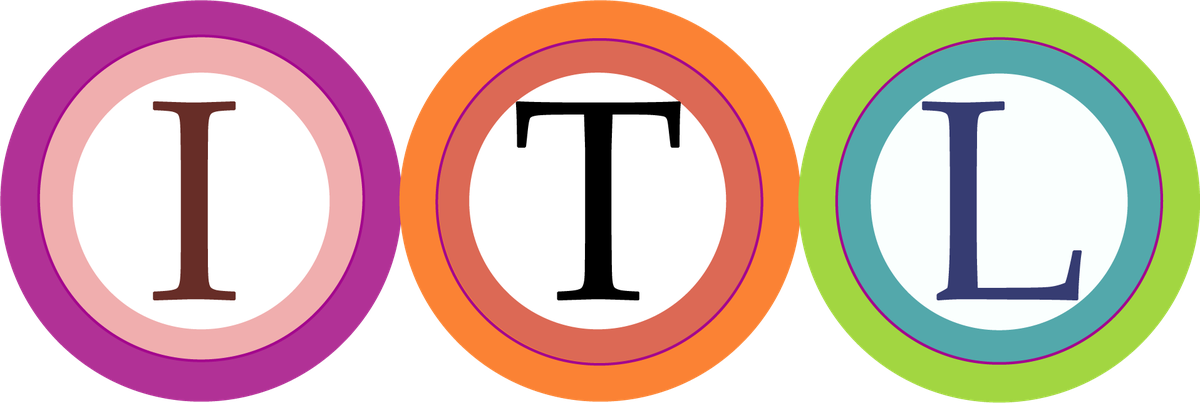
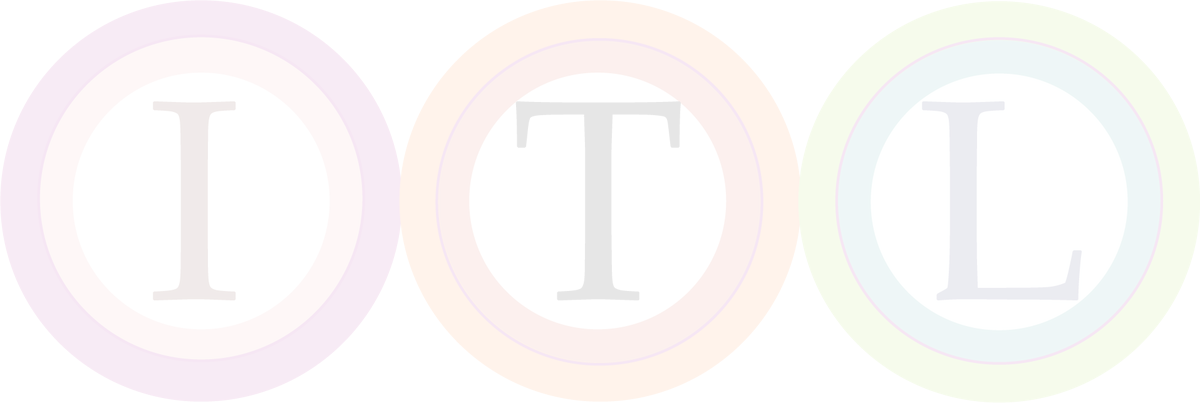
auto-commit for 1ee01e3e-f6ef-4db5-9669-68d5a14521bc

diff --git a/frontend/public/index.html b/frontend/public/index.html
@@ -6,7 +6,7 @@
     <link rel="apple-touch-icon" sizes="192x192" href="%PUBLIC_URL%/logo192.png" />
     <meta name="viewport" content="width=device-width, initial-scale=1, viewport-fit=cover" />
     <meta name="theme-color" content="#2563eb" />
-    <meta name="description" content="INDIAN TRADE LINKS ERP — Industrial Services Pvt. Ltd. Single-window cloud ERP for scaffolding, painting, roof sheeting, rope access & shutdown operations." />
+    <meta name="description" content="INDIAN TRADE LINKS ERP — Single-window cloud ERP for scaffolding, painting, roof sheeting, rope access & shutdown operations." />
     <meta name="apple-mobile-web-app-capable" content="yes" />
     <meta name="mobile-web-app-capable" content="yes" />
     <meta name="apple-mobile-web-app-status-bar-style" content="default" />

diff --git a/frontend/src/pages/Landing.jsx b/frontend/src/pages/Landing.jsx
@@ -205,7 +205,7 @@ export default function Landing() {
       <footer className="border-t border-border">
         <div className="max-w-7xl mx-auto px-6 py-8 flex flex-wrap items-center justify-between gap-4">
           <Brand />
-          <div className="text-xs text-muted-foreground">© {new Date().getFullYear()} INDIAN TRADE LINKS — Industrial Services Pvt. Ltd.</div>
+          <div className="text-xs text-muted-foreground">© {new Date().getFullYear()} INDIAN TRADE LINKS</div>
         </div>
       </footer>
     </div>

diff --git a/frontend/src/components/Brand.jsx b/frontend/src/components/Brand.jsx
@@ -23,7 +23,6 @@ export default function Brand({ compact = false, className = "" }) {
       {!compact && (
         <div className="leading-tight">
           <div className="font-display font-black text-[13px] tracking-tight uppercase">Indian Trade Links</div>
-          <div className="text-[9px] uppercase tracking-[0.18em] opacity-60 -mt-0.5">Industrial Services Pvt. Ltd.</div>
         </div>
       )}
     </div>

diff --git a/backend/pdf_generator.py b/backend/pdf_generator.py
@@ -33,8 +33,11 @@ except Exception:  # pragma: no cover
     _RL_OK = False
 
 
-BRAND = "INDIAN TRADE LINKS · Industrial Services Pvt. Ltd."
+BRAND = "INDIAN TRADE LINKS"
 FOOTER_NOTE = "System-generated · Not valid without approval signatures"
+CORPORATE_ADDRESS = ("Corporate Address - Tower-1, Office No. 605-606, 6th Floor, "
+                     "Pearl Omaxe Building, Netaji Subhash Place, Pitampura, Delhi - 110034.")
+WATERMARK_FILE = "file:///app/backend/assets/itl-watermark.png"
 
 CSS_BASE = """
 <style>
@@ -67,7 +70,11 @@ td.num, th.num { text-align: right; font-variant-numeric: tabular-nums; }
 .tag.slate { background: #e2e8f0; color: #334155; }
 .footer { position: fixed; bottom: 6mm; left: 16mm; right: 16mm;
           font-size: 8pt; color: #64748b; border-top: 1px solid #e2e8f0;
-          padding-top: 4px; display: flex; justify-content: space-between; }
+          padding-top: 4px; }
+.footer .frow { display: flex; justify-content: space-between; }
+.footer .faddr { text-align: center; font-size: 7.5pt; margin-top: 2px; }
+.wm { position: fixed; top: 38%; left: 0; right: 0; text-align: center; z-index: -1; }
+.wm img { width: 130mm; }
 .signs { margin-top: 28px; display: flex; gap: 24px; }
 .signs .box { flex: 1; border-top: 1px solid #0f172a; padding-top: 4px; font-size: 9pt; color: #475569; }
 .note { font-size: 9pt; color: #64748b; margin-top: 6px; }
@@ -96,6 +103,7 @@ def _esc(s: Any) -> str:
 
 def _wrap(title: str, body_html: str) -> str:
     return f"""<!DOCTYPE html><html><head><meta charset="utf-8">{CSS_BASE}</head><body>
+<div class="wm"><img src="{WATERMARK_FILE}" /></div>
 <div class="title-row">
   <div>
     <div class="brand">{_esc(BRAND)}</div>
@@ -104,7 +112,10 @@ def _wrap(title: str, body_html: str) -> str:
   <div class="meta">Generated: <b>{_now_str()}</b></div>
 </div>
 {body_html}
-<div class="footer"><div>{_esc(FOOTER_NOTE)}</div><div>{_esc(BRAND)}</div></div>
+<div class="footer">
+  <div class="frow"><div>{_esc(FOOTER_NOTE)}</div><div>{_esc(BRAND)}</div></div>
+  <div class="faddr">{_esc(CORPORATE_ADDRESS)}</div>
+</div>
 </body></html>"""
 
 

diff --git a/backend/exports.py b/backend/exports.py
@@ -19,7 +19,7 @@ from pdf_watermark import attach_watermark
 # Brand asset (kept at repo path so both Excel/PDF can embed it)
 BRAND_LOGO_PATH = os.path.join(os.path.dirname(os.path.abspath(__file__)), "assets", "itl-logo.jpg")
 BRAND_NAME = "INDIAN TRADE LINKS"
-BRAND_SUB = "Industrial Services Pvt. Ltd."
+BRAND_SUB = ""
 
 # ─── DPDP Act 2023 — PII fields per resource ───────────────────────────────
 # These fields are masked for non-privileged users in PDF/Excel exports.
@@ -231,7 +231,7 @@ def to_excel(resource: str, rows: List[Dict[str, Any]], mask_pii: bool = False) 
 
     # Brand text block (rows 1-3, columns C+)
     ws.cell(row=1, column=3, value=BRAND_NAME).font = Font(bold=True, size=14, color="0F172A")
-    ws.cell(row=2, column=3, value=BRAND_SUB).font = Font(italic=True, color="475569", size=9)
+    ws.cell(row=2, column=3, value="").font = Font(italic=True, color="475569", size=9)
     ws.cell(row=3, column=3, value=f"{resource.replace('_', ' ').title()} · Generated: {datetime.utcnow().strftime('%Y-%m-%d %H:%M UTC')}").font = Font(italic=True, color="64748B", size=9)
     if mask_pii:
         ws.cell(row=4, column=3, value="⚠ DPDP Act 2023 — PII fields are masked for the current viewer.").font = Font(italic=True, color="B45309", size=9)
@@ -284,7 +284,6 @@ def to_pdf(resource: str, rows: List[Dict[str, Any]], mask_pii: bool = False) ->
         logo_cell = ""
     brand_block = [
         Paragraph(f"<b>{BRAND_NAME}</b>", title_style),
-        Paragraph(BRAND_SUB, sub_style),
         Paragraph(f"{resource.replace('_', ' ').title()} · Generated: {datetime.utcnow().strftime('%Y-%m-%d %H:%M UTC')} · {len(rows)} records", meta_style),
     ]
     if mask_pii:

diff --git a/backend/pdf_watermark.py b/backend/pdf_watermark.py
@@ -12,6 +12,28 @@ from reportlab.lib.units import mm
 
 WATERMARK_PATH = os.path.join(os.path.dirname(os.path.abspath(__file__)), "assets", "itl-watermark.png")
 
+CORPORATE_ADDRESS = ("Corporate Address - Tower-1, Office No. 605-606, 6th Floor, "
+                     "Pearl Omaxe Building, Netaji Subhash Place, Pitampura, Delhi - 110034.")
+
+
+def _draw_footer(canvas, doc):
+    """Centered corporate-address footer on the current page."""
+    try:
+        page_w, _ = canvas._pagesize
+    except AttributeError:
+        page_w, _ = A4
+    canvas.saveState()
+    try:
+        canvas.setStrokeColorRGB(0.80, 0.84, 0.88)
+        canvas.setLineWidth(0.4)
+        canvas.line(14 * mm, 10.5 * mm, page_w - 14 * mm, 10.5 * mm)
+        canvas.setFont("Helvetica", 7)
+        canvas.setFillColorRGB(0.39, 0.45, 0.55)
+        canvas.drawCentredString(page_w / 2.0, 6.5 * mm, CORPORATE_ADDRESS)
+    except Exception:
+        pass
+    canvas.restoreState()
+
 
 def _draw_watermark(canvas, doc, *, width_mm: float = 140.0):
     """Draw the watermark centered on the current page."""
@@ -50,11 +72,13 @@ def attach_watermark(doc, *, width_mm: float = 140.0):
 
     def _first(canvas, _doc):
         _draw_watermark(canvas, _doc, width_mm=width_mm)
+        _draw_footer(canvas, _doc)
         if callable(prev_first):
             prev_first(canvas, _doc)
 
     def _later(canvas, _doc):
         _draw_watermark(canvas, _doc, width_mm=width_mm)
+        _draw_footer(canvas, _doc)
         if callable(prev_later):
             prev_later(canvas, _doc)
 

diff --git a/backend/document_pdf.py b/backend/document_pdf.py
@@ -25,9 +25,11 @@ from reportlab.platypus import (
     TableStyle,
 )
 
+from pdf_watermark import attach_watermark
+
 BRAND_LOGO_PATH = os.path.join(os.path.dirname(os.path.abspath(__file__)), "assets", "itl-logo.jpg")
 BRAND_NAME = "INDIAN TRADE LINKS"
-BRAND_SUB = "Industrial Services Pvt. Ltd."
+BRAND_SUB = ""
 
 
 def _styles():
@@ -52,7 +54,6 @@ def _header(s):
         logo = None
     brand = [
         Paragraph(f"<b>{BRAND_NAME}</b>", s["h2"]),
-        Paragraph(BRAND_SUB, s["meta"]),
     ]
     cells = [[logo or "", brand]] if logo else [["", brand]]
     t = Table(cells, colWidths=[28 * mm, None])
@@ -117,6 +118,7 @@ def _build_pdf(elements: List[Any]) -> bytes:
     doc = SimpleDocTemplate(buf, pagesize=A4,
                             leftMargin=18 * mm, rightMargin=18 * mm,
                             topMargin=14 * mm, bottomMargin=14 * mm)
+    attach_watermark(doc, width_mm=120.0)
     doc.build(elements)
     return buf.getvalue()
 

diff --git a/backend/notification_service.py b/backend/notification_service.py
@@ -60,7 +60,6 @@ def _shell(title: str, preheader: str, body_html: str, cta_label: str | None = N
             </td>
             <td valign="middle">
               <div style="color:#0f172a;font-weight:900;font-size:16px;letter-spacing:-0.01em;line-height:1.2;">INDIAN TRADE LINKS</div>
-              <div style="color:#64748b;font-size:10px;letter-spacing:0.18em;text-transform:uppercase;margin-top:2px;">Industrial Services Pvt. Ltd.</div>
             </td>
             <td align="right" valign="middle" style="color:#94a3b8;font-size:10px;letter-spacing:0.18em;text-transform:uppercase;">ERP Notification</td>
           </tr>

diff --git a/backend/quotation_pdf.py b/backend/quotation_pdf.py
@@ -70,7 +70,6 @@ def _header_table(quote: Dict, company: Dict, styles) -> Table:
 
     company_block = [
         Paragraph(f"<b>{(company.get('name') or 'INDIAN TRADE LINKS').upper()}</b>", styles["Title2"]),
-        Paragraph("Industrial Services Pvt. Ltd.", styles["Small"]),
         Paragraph(company.get("address") or "—", styles["Small"]),
         Paragraph(
             f"GSTIN: <b>{company.get('gstin') or '—'}</b>  |  PAN: <b>{company.get('pan') or '—'}</b>",

diff --git a/backend/routers/safety_phase5_router.py b/backend/routers/safety_phase5_router.py
@@ -692,6 +692,8 @@ def _stream_pdf(payload: Dict[str, Any]) -> StreamingResponse:
 
     buf = io.BytesIO()
     doc = SimpleDocTemplate(buf, pagesize=landscape(A4), title=payload["label"])
+    from pdf_watermark import attach_watermark
+    attach_watermark(doc, width_mm=180.0)
     styles = getSampleStyleSheet()
     elems = [
         Paragraph(f"<b>{payload['label']}</b>", styles["Title"]),

diff --git a/memory/PRD.md b/memory/PRD.md
@@ -4729,3 +4729,10 @@ User supplied a new 3-circle ITL logo (1916x644, ~2.97:1). Replaced ALL logo ass
 - Aspect-ratio fixes for new 2.97:1 shape: pdf_watermark.py (644/1916), exports.py Excel img 134x45 px + PDF band 33x11.1mm (colWidths 37/227), quotation_pdf.py 34x11.4mm (colWidths 38/72/75), document_pdf.py 24x8.1mm (colWidth 28), notification_service.py email img 107x36.
 - Verified: quotation PDF (QTN-2026-0086) + employees PDF export rendered to image — new logo in header AND watermark; login page screenshot shows new brand mark. Users may need a hard-refresh in already-open browsers (same filename = cached).
 **Status: COMPLETE & self-tested (PDF renders + screenshot).**
+
+### Feature (Jul 24, 2026) — Branding updates: subtitle removal + PDF watermark & footer everywhere ✅
+1. "Industrial Services Pvt. Ltd." removed everywhere: Brand.jsx (sidebar/login/landing/footer), Landing copyright, index.html meta, manifest.json, exports.py (Excel row2 + PDF band), quotation_pdf.py company block, document_pdf.py header, pdf_generator.py BRAND, notification_service.py email header. Grep-verified 0 remaining occurrences.
+2. Centered ITL watermark on EVERY page of ALL PDFs: itl-watermark.png regenerated with baked ~10% alpha (old one had faint alpha; first replacement was full-strength — fixed). attach_watermark() now used by exports.py (already), quotation_pdf.py (already), document_pdf.py `_build_pdf` (NEW — covers PO/RA-bill/RFQ/voucher/DN-CN PDFs), safety_phase5_router.py exports (NEW). pdf_generator.py (WeasyPrint: PR/RFQ/comparative/PO/GRN/material-issue) uses a fixed `.wm` div with file:// watermark (CSS opacity removed to avoid double-dimming).
+3. Corporate-address footer on every PDF page: pdf_watermark._draw_footer draws centered "Corporate Address - Tower-1, Office No. 605-606, 6th Floor, Pearl Omaxe Building, Netaji Subhash Place, Pitampura, Delhi - 110034." with a thin rule at bottom via the same page callbacks; pdf_generator adds it in the fixed HTML footer.
+- Verified renders: PR-2026-0041 (WeasyPrint), QTN-2026-0086 (quotation), employees.pdf (2 pages — footer on both), document_pdf PO — all show faint watermark + address footer, no "Industrial Services Pvt. Ltd.". Login screenshot: subtitle gone.
+**Status: COMPLETE & self-tested (multi-generator PDF renders + screenshot).**
